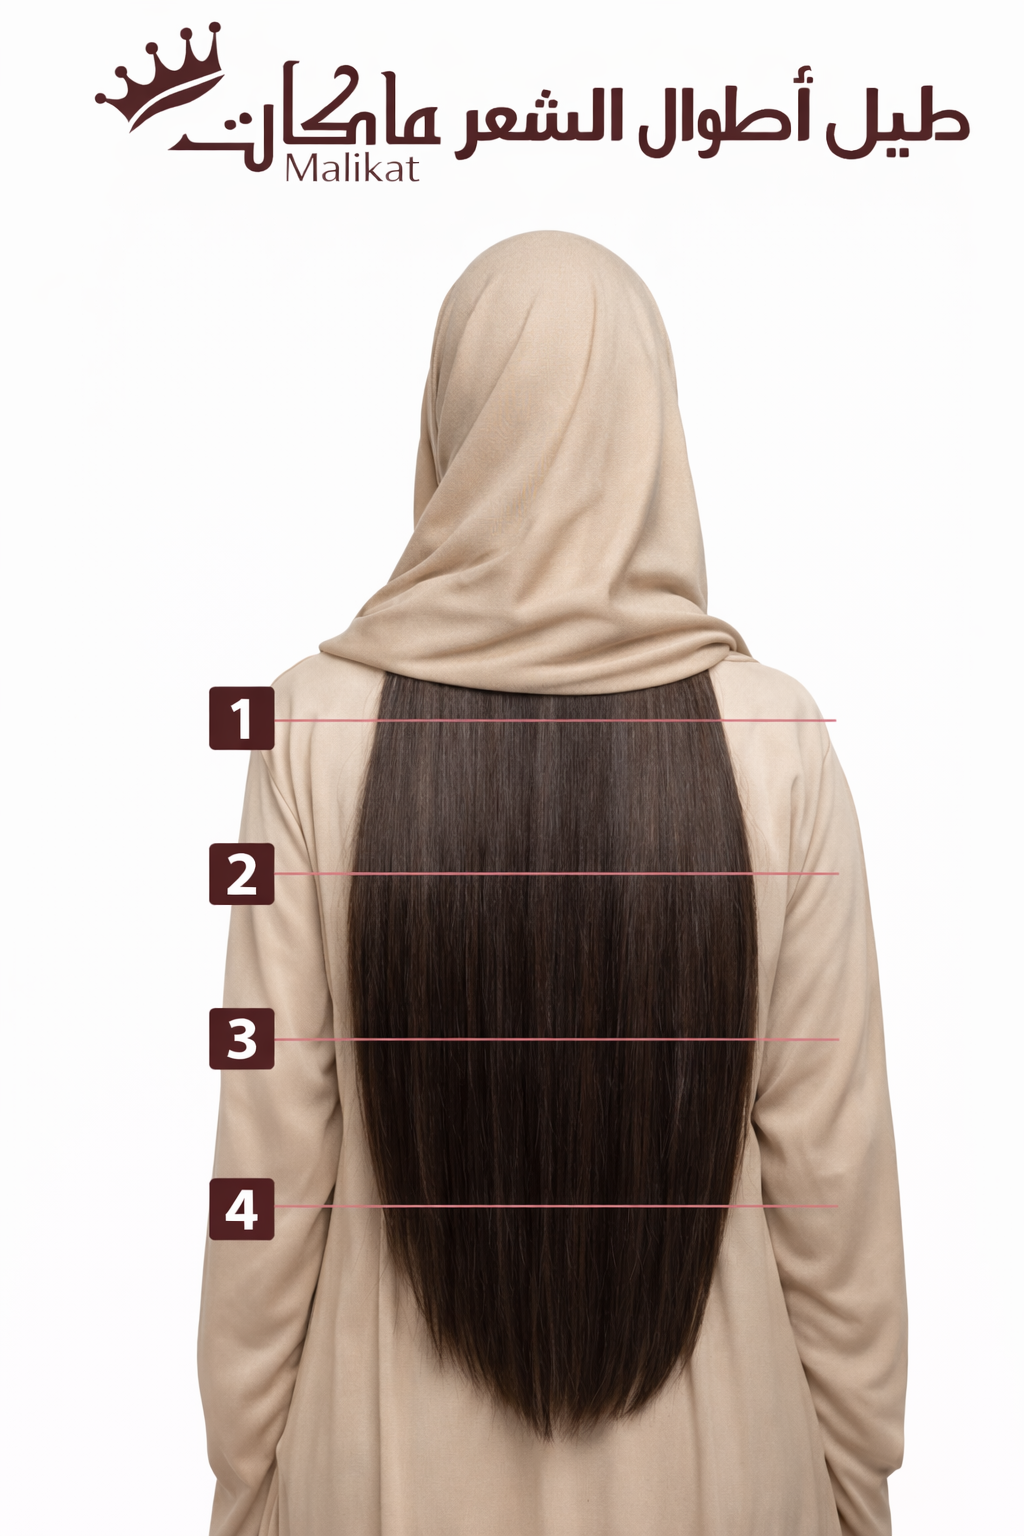
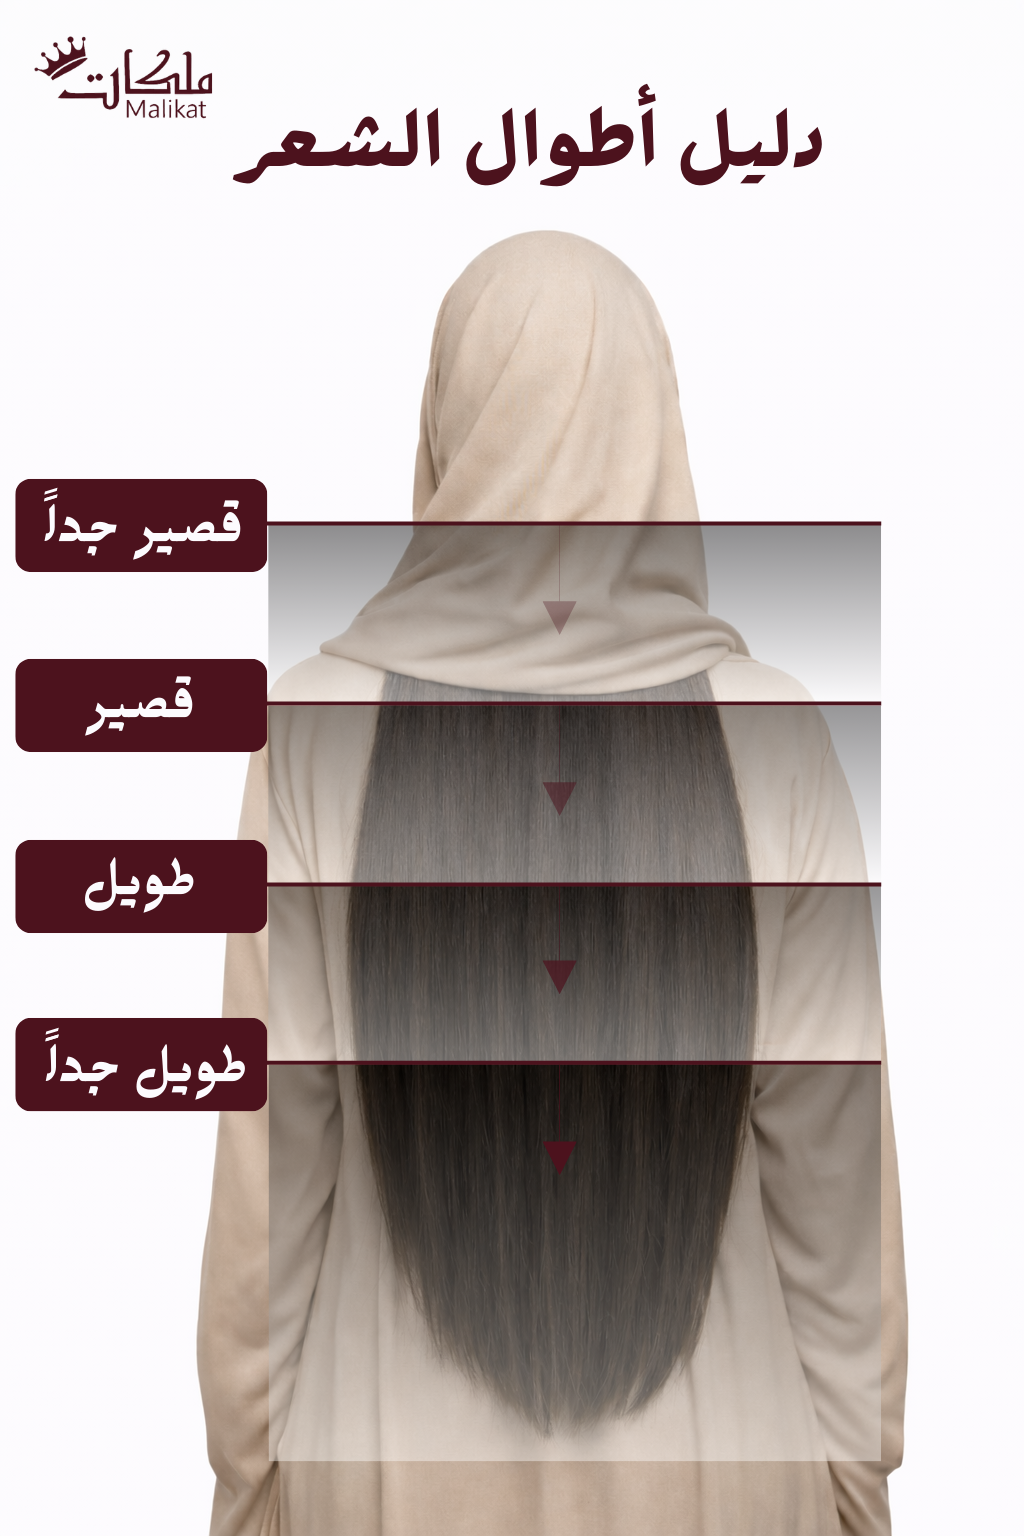
fix: update dashboard settings and r2 flow

diff --git a/src/styles/DashboardOffers.css b/src/styles/DashboardOffers.css
@@ -328,6 +328,108 @@
   padding: 14px 14px;
 }
 
+.of-modal-head .dash-pill,
+.of-modal-actions .dash-pill,
+.of-field-inline .dash-pill {
+  min-height: 40px;
+  padding: 10px 14px;
+  border-radius: 12px;
+  font-size: 14px;
+  font-weight: 800;
+  justify-content: center;
+}
+
+/* Modal button system: keep buttons clean and consistent */
+.offers-modal .dash-pill {
+  border: 1px solid rgba(13, 13, 13, 0.16);
+  background: #fff;
+  color: #111827;
+  box-shadow: none;
+}
+
+.offers-modal .dash-pill:hover {
+  background: rgba(64, 1, 13, 0.06);
+  border-color: rgba(64, 1, 13, 0.24);
+}
+
+.offers-modal .dash-pill.dash-pill-primary {
+  background: #40010D;
+  border-color: #40010D;
+  color: #fff;
+}
+
+.offers-modal .dash-pill.dash-pill-primary svg {
+  color: #fff;
+}
+
+.offers-modal .dash-pill.dash-pill-primary:hover {
+  background: #530214;
+  border-color: #530214;
+}
+
+.offers-modal .dash-pill.dash-pill-outline {
+  background: #fff;
+  color: #40010D;
+  border-color: rgba(64, 1, 13, 0.24);
+}
+
+/* Discount type dropdown inside offers modal */
+.offers-modal .dash-select {
+  min-height: 44px;
+  border-radius: 12px;
+  background: #fff;
+  border: 1px solid rgba(13, 13, 13, 0.12);
+  color: #111827;
+  font-weight: 700;
+}
+
+.offers-modal .dash-select:hover {
+  border-color: rgba(64, 1, 13, 0.24);
+  box-shadow: 0 0 0 3px rgba(64, 1, 13, 0.08);
+}
+
+.offers-modal .dash-dd-menu {
+  margin-top: 6px;
+  padding: 6px;
+  border-radius: 12px;
+  background: #fff;
+  border: 1px solid rgba(13, 13, 13, 0.12);
+  box-shadow: 0 14px 30px rgba(13, 13, 13, 0.12);
+  z-index: 20;
+}
+
+.offers-modal .dash-dd-item {
+  width: 100%;
+  border: 0;
+  border-radius: 10px;
+  background: transparent;
+  color: #111827;
+  font-weight: 700;
+  padding: 10px 12px;
+  text-align: right;
+}
+
+.offers-modal .dash-dd-item:hover {
+  background: rgba(64, 1, 13, 0.08);
+  color: #40010D;
+}
+
+.offers-modal .dash-dd-item.is-active {
+  background: rgba(64, 1, 13, 0.12);
+  color: #40010D;
+}
+
+/* Date picker icon visibility inside offers modal */
+.offers-modal input[type="date"] {
+  color-scheme: light;
+}
+
+.offers-modal input[type="date"]::-webkit-calendar-picker-indicator {
+  filter: invert(0);
+  opacity: 1;
+  cursor: pointer;
+}
+
 .of-modal-title h3 {
   margin: 0;
   font-size: 16px;
@@ -358,7 +460,7 @@
 
   display: flex;
   gap: 10px;
-  justify-content: flex-start;
+  justify-content: flex-end;
 
   background: rgba(255, 255, 255, 0.94);
   border-top: 1px solid rgba(13, 13, 13, 0.08);
@@ -415,6 +517,10 @@
   align-items: end;
 }
 
+.of-field-inline .dash-pill {
+  min-width: 120px;
+}
+
 .of-grid-3 {
   display: grid;
   grid-template-columns: 1fr 1fr 1fr;
@@ -424,6 +530,14 @@
 }
 .of-switch {
   justify-self: start;
+}
+
+.of-switch .of-checkline {
+  min-height: 44px;
+  border: 1px solid rgba(13, 13, 13, 0.12);
+  background: #fff;
+  border-radius: 12px;
+  padding: 0 12px;
 }
 
 .of-grid-2 {
@@ -447,23 +561,25 @@
 }
 
 .of-scope-pills {
-  display: flex;
+  display: grid;
+  grid-template-columns: repeat(2, minmax(220px, 1fr));
   gap: 10px;
-  flex-wrap: wrap;
   margin-top: 10px;
 }
 
 .of-pill {
   display: inline-flex;
   align-items: center;
+  justify-content: space-between;
   gap: 10px;
   background: #fff;
   border: 1px solid rgba(13, 13, 13, 0.10);
-  border-radius: 999px;
+  border-radius: 12px;
   padding: 10px 12px;
   cursor: pointer;
   user-select: none;
   color: #0D0D0D;
+  min-height: 44px;
 }
 
 .of-pill input {
@@ -579,6 +695,7 @@
   font-weight: 900;
   font-size: 13px;
   color: #40010D;
+  min-height: 42px;
 }
 
 .of-file-btn:hover{
@@ -635,11 +752,58 @@
   .offers-modal {
     width: 96vw;
   }
+
+  .of-scope-pills {
+    grid-template-columns: 1fr;
+  }
 }
 
 @media (max-width: 520px) {
   .offers-header h1 {
     font-size: 17px;
+  }
+
+  .of-modal-head {
+    flex-direction: column;
+    align-items: stretch;
+  }
+
+  .of-modal-head .dash-pill {
+    width: 100%;
+  }
+
+  .of-scope-pills {
+    grid-template-columns: 1fr;
+  }
+
+  .of-pill {
+    width: 100%;
+    justify-content: space-between;
+  }
+
+  .of-field-inline > div {
+    min-width: 0;
+  }
+
+  .of-field-inline .dash-pill {
+    width: 100%;
+  }
+
+  .of-file-row {
+    flex-direction: column;
+    align-items: stretch;
+  }
+
+  .of-file-btn {
+    width: 100%;
+  }
+
+  .of-modal-actions {
+    flex-direction: column;
+  }
+
+  .of-modal-actions .dash-pill {
+    width: 100%;
   }
 }
 
